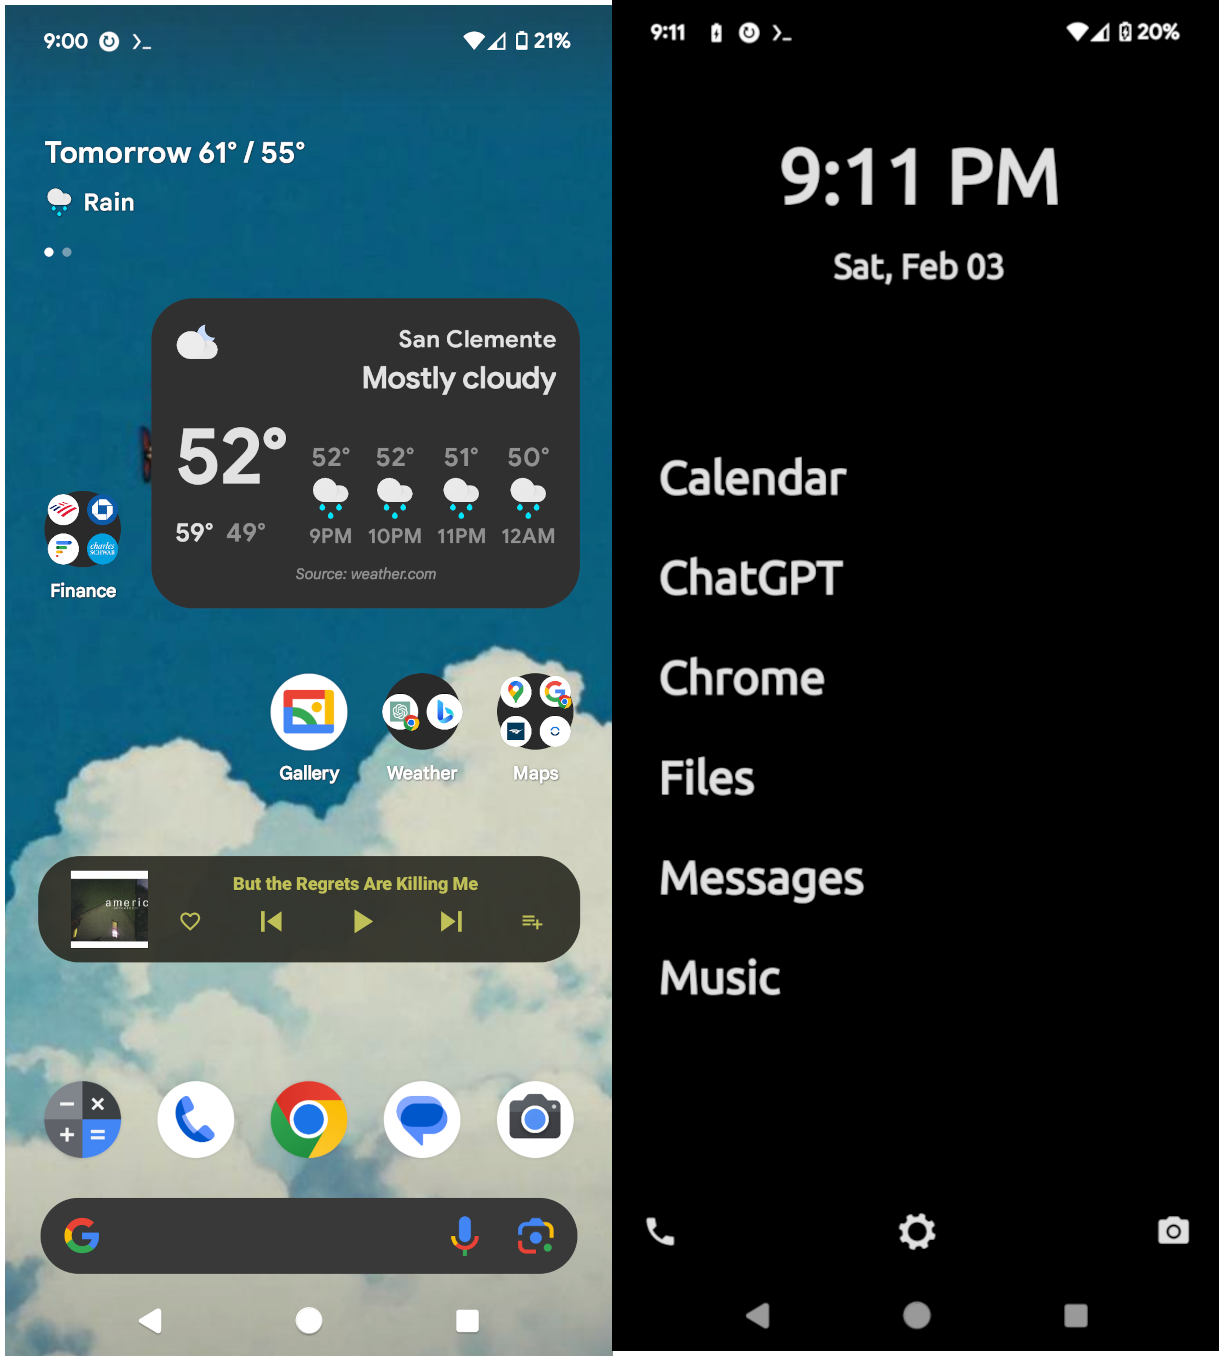
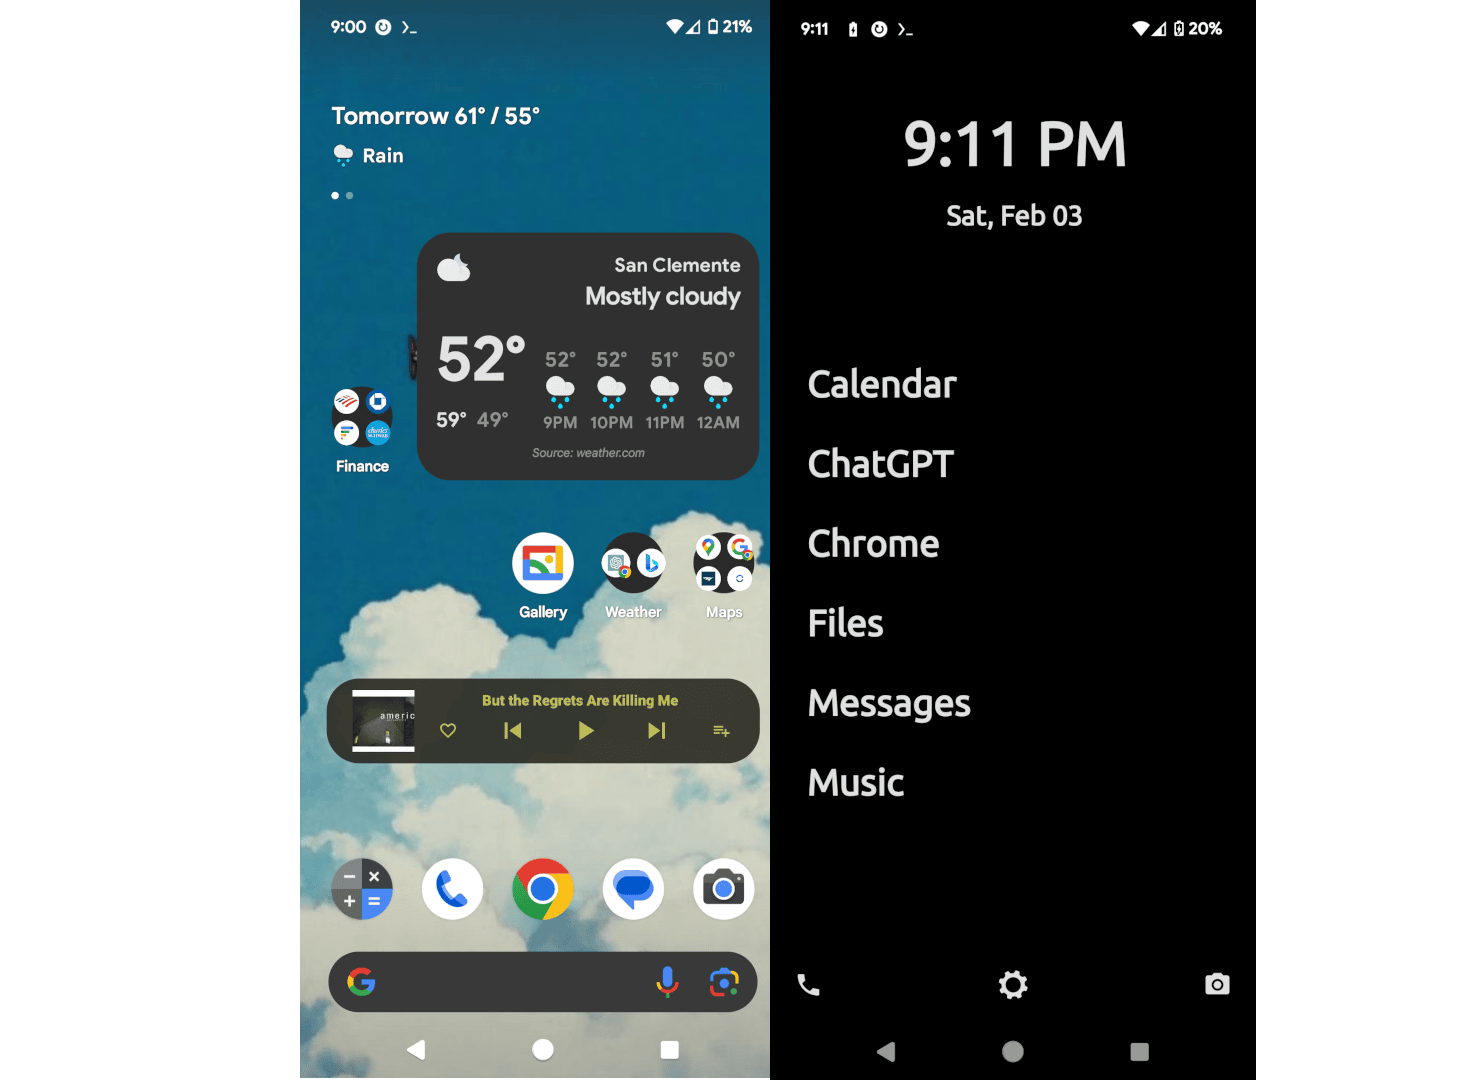
adding johnvertisments

diff --git a/public/post/2024/02/03/rethinking-smartphone-ui/index.html b/public/post/2024/02/03/rethinking-smartphone-ui/index.html
@@ -36,12 +36,14 @@
 <main>
 <p><img src="/img/post/rethinking-smartphone-ui/thumb.png" alt="thumb"></p>
 <p>Recently I&rsquo;ve been feeling that the way that I was using my android smart phone is very cluttered compared to how I use my laptop and desktop linux systems. While I was browsing Fdroid I found a possible solution to my problem in a minimalist launcher.</p>
-<p><img src="/img/post/rethinking-smartphone-ui/android-clutter.png#height=500" alt="desktop"></p>
-<p>Current day android running on my pixel 6 is fine but I wanted something more. I find that the multitude of apps within folders and widgets scattered across my home screen is not something that I find pleasant to interface with.</p>
-<p><img src="/img/post/rethinking-smartphone-ui/home-desktop.png" alt="desktop"></p>
-<p>Compare this to my desktop of laptop linux setup and you have a night and day different. While android is cluttered with visual representations of a million possible actions linux is a clean slate that you fill up with your actions. All I have to do is call my application launcher with a keyboard shortcut and type the first few letters of the application I want to launch.</p>
-<p>This brings me to Unlauncher. Unlauncher is a fork of another opensource android launcher called Slim Launcher by sdudzog. Slim launcher was intended to minimize the functionality of your smartphone by reducing the amount of apps that you can you. This was done for the purpose of minimizing technology use of the user. But philosophy behind Unlaucher differs being that it does not restrict what apps you can use. You can swipe up and launch any app from the app draw while still being able to add some of your most used apps to the home screen.</p>
-<p>By using Unlauncher on my smartphone I have made the workflow between my linux machines and my smartphone very similar.</p>
+<p><img src="/img/post/rethinking-smartphone-ui/android-ui.png" alt="android"></p>
+<p>Current day android running on my pixel 6 is fine but I wanted something more utilitarian. I find that the multitude of apps within folders and widgets scattered across my home screen is not something that I find pleasant to interface with.</p>
+<p><img src="/img/post/rethinking-smartphone-ui/computer-launchers.png" alt="desktops"></p>
+<p>Compare this to my desktop and laptop linux setup and you have a night and day difference. While android is cluttered with visual representations of a million possible actions linux is a clean slate that you fill up with your actions. All I have to do is call my application launcher with a keyboard shortcut and type the first few letters of the application I want to launch.</p>
+<p><img src="/img/post/rethinking-smartphone-ui/unlauncher-launcher.png" alt="unlauncher"></p>
+<p>This brings me to <a href="https://github.com/jkuester/unlauncher">Unlauncher</a>. Unlauncher is a fork of another opensource android launcher called <a href="https://github.com/sduduzog/slim-launcher">Slim Launcher</a> by sdudzog. Slim launcher is a traditional ‘dumb phone’ launcher minimizing the functionality of your smartphone by reducing the amount of apps you can use for the purpose of ‘digital well-being’. But the philosophy behind Unlaucher differs being that it does not restrict what apps you can use. You can swipe up and launch any app from the app draw while still being able to add some of your most used apps to the home screen.</p>
+<p>By using Unlauncher on my smartphone I have made the workflow between my linux machines and my smartphone very similar. The minimalist UI has also decreased the amount of distraction my phone can cause. Now when I look at my phone I have to know what I want to do before hand. This not only makes using my phone faster but also much more productive.</p>
+<p>I recommend anyone that is interested in trying a minimalist android launcher to do so.</p>
 
 </main>
 
